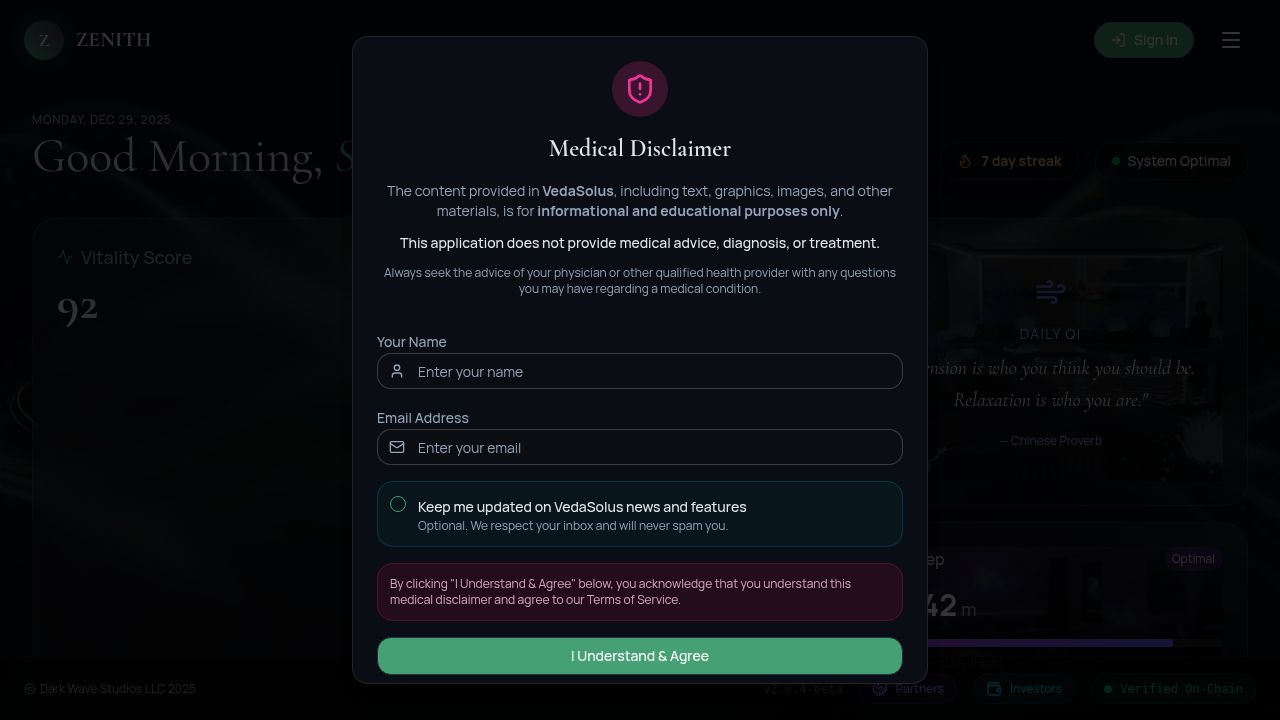
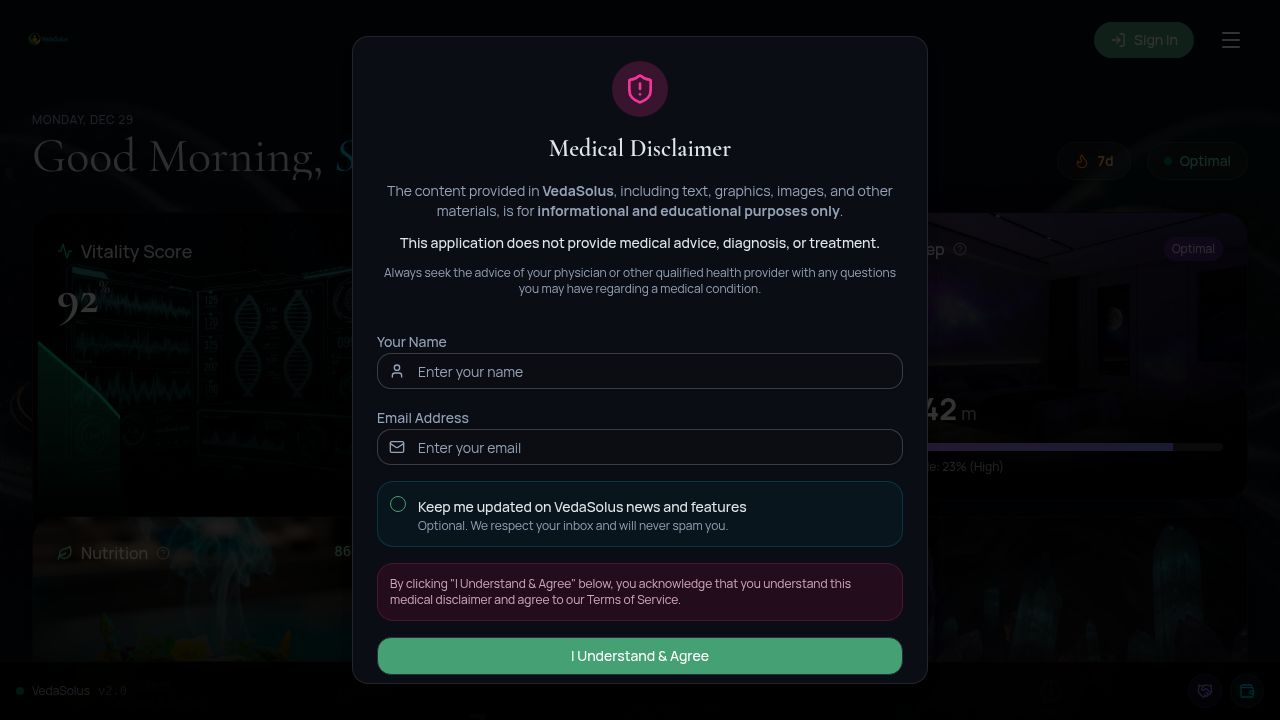
Update application visuals and add interactive tooltips to health cards
Update replit.md to document recent changes including card design overhaul, educational info tooltips, and heart rate tracking functionality.

Replit-Commit-Author: Agent
Replit-Commit-Session-Id: ba9a7f8b-3c4c-42c8-ab50-ab88c8bc8138
Replit-Commit-Checkpoint-Type: full_checkpoint
Replit-Commit-Event-Id: 9a2c1ea0-3695-4db3-a20a-2544b7d942cc
Replit-Commit-Screenshot-Url: https://storage.googleapis.com/screenshot-production-us-central1/c3c833f9-f728-4fd9-8731-e0b7935aac36/ba9a7f8b-3c4c-42c8-ab50-ab88c8bc8138/k20lGrS
Replit-Helium-Checkpoint-Created: true

diff --git a/replit.md b/replit.md
@@ -200,6 +200,12 @@ Both logos feature:
 ## Recent Changes
 
 ### December 2024
+- **Card Design Overhaul** - All BentoCards now feature photorealistic backgrounds
+  - 9 generated images: vitality, wisdom, nutrition, activity, heart rate, achievements, meditation, insights, AI coach
+  - Fade-to-black gradient overlay (bg-gradient-to-t from-black via-black/60 to-transparent)
+  - Text colors updated to white/light for visibility on image backgrounds
+- **Educational Info Tooltips** on Sleep, Nutrition, Activity, and Heart Rate cards
+- **Heart Rate Tracking** with manual BPM logging, context selection (Resting, Exercise, etc.), and interactive modal
 - Added AI Wellness Coach with ElevenLabs voice synthesis
 - Created comprehensive Developer Dashboard with Roadmap, Analytics, System, and Docs tabs
 - Added Mission Statement / Executive Summary in hamburger menu
